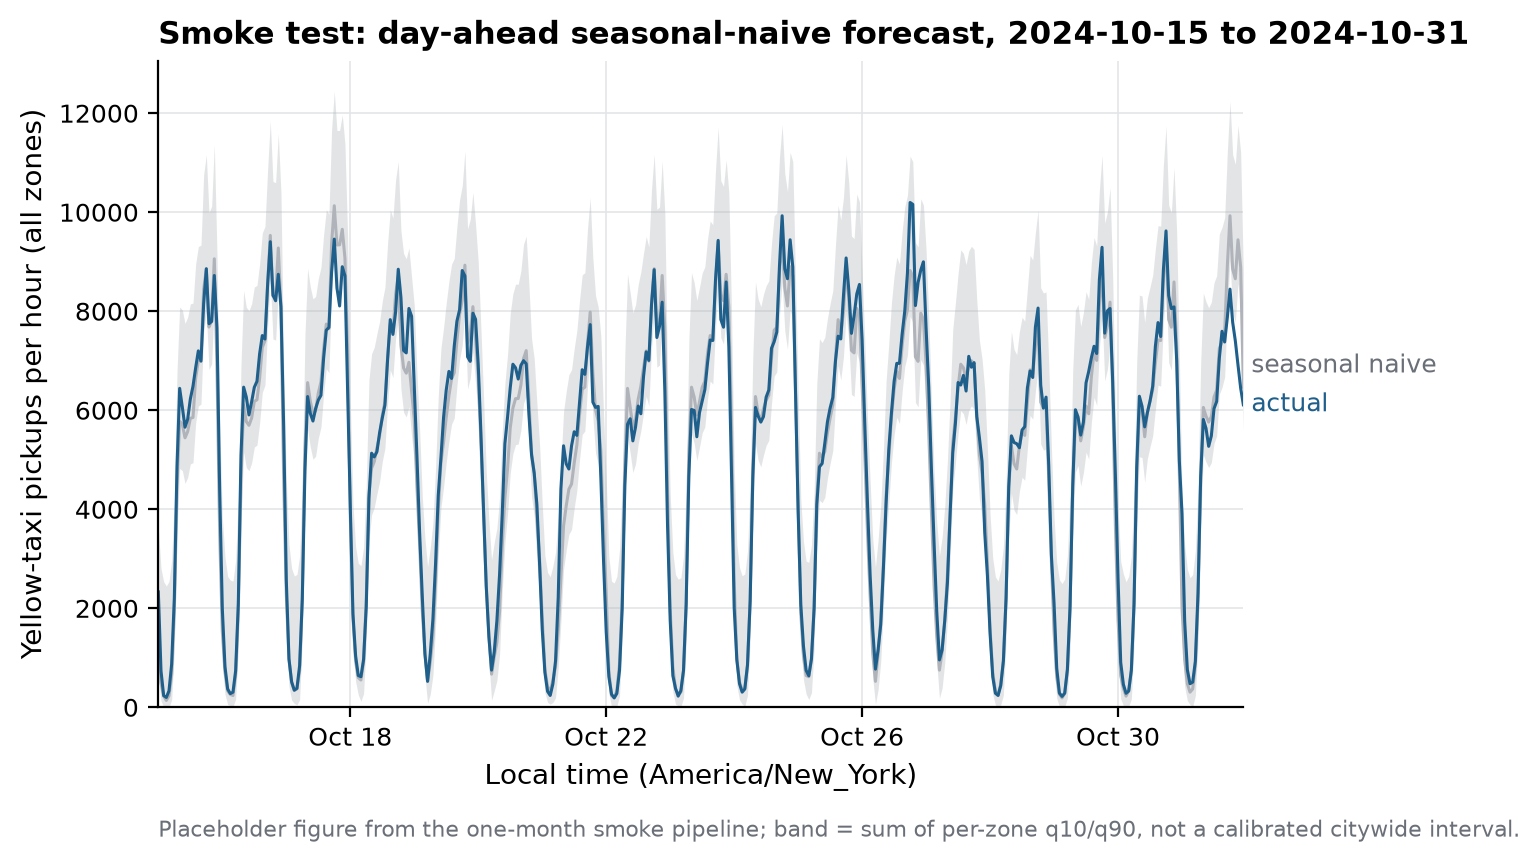
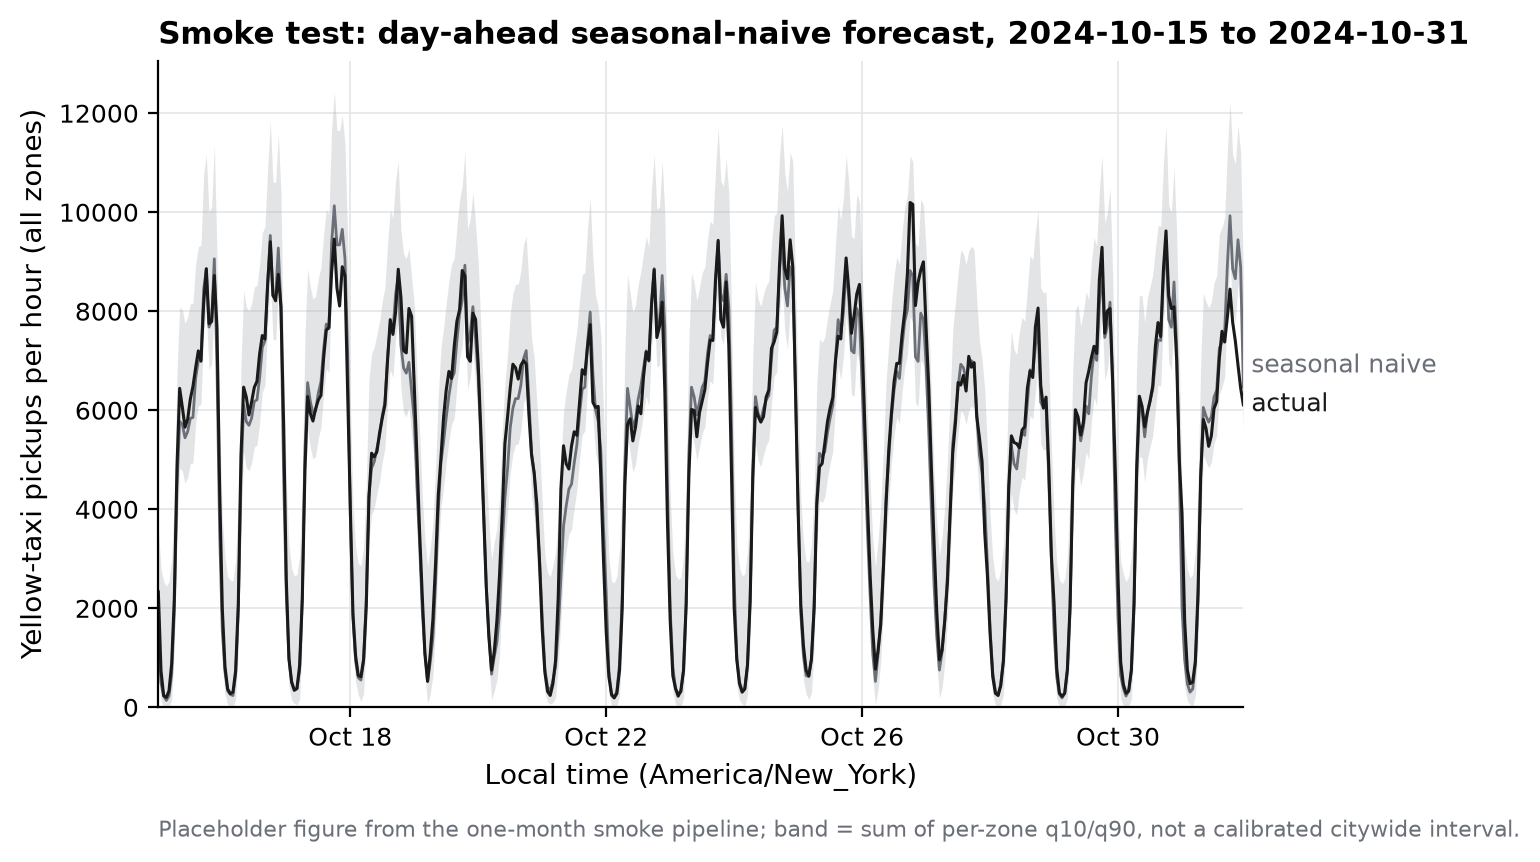
phase 0: apply review round 1 fixes (clean-clone script, manifest pruning, decisions, palette)

Changed region(s): [[0.0935, 0.2715, 0.8727, 0.8144]]

diff --git a/scripts/clean_clone_smoke.py b/scripts/clean_clone_smoke.py
@@ -1,0 +1,60 @@
+"""Prove `make smoke` works on a clean clone: export the committed tree (HEAD) into an empty
+temporary directory, run `make setup && make smoke` there, and record the result in
+results/smoke/smoke_run_clean_clone.json. Uncommitted changes are deliberately not tested.
+"""
+
+from __future__ import annotations
+
+import io
+import json
+import shutil
+import subprocess
+import tarfile
+import tempfile
+import time
+from pathlib import Path
+
+from taxi_shock.config import load_config, path, repo_root
+
+
+def main() -> None:
+    cfg = load_config()
+    root = repo_root()
+    commit = subprocess.run(["git", "rev-parse", "HEAD"], cwd=root, check=True,
+                            capture_output=True, text=True).stdout.strip()
+    dirty = subprocess.run(["git", "status", "--porcelain"], cwd=root, check=True,
+                           capture_output=True, text=True).stdout.strip() != ""
+    tmp = Path(tempfile.mkdtemp(prefix="taxi_shock_clean_"))
+    try:
+        archive = subprocess.run(["git", "archive", "--format=tar", "HEAD"], cwd=root,
+                                 check=True, capture_output=True).stdout
+        with tarfile.open(fileobj=io.BytesIO(archive)) as tf:
+            tf.extractall(tmp, filter="data")
+        # results/smoke and the smoke figure are tracked; remove them so the run must recreate them
+        shutil.rmtree(tmp / cfg["smoke"]["results_dir"], ignore_errors=True)
+        shutil.rmtree(tmp / cfg["smoke"]["figures_dir"], ignore_errors=True)
+        t0 = time.perf_counter()
+        subprocess.run(["make", "setup"], cwd=tmp, check=True)
+        setup_s = round(time.perf_counter() - t0, 1)
+        subprocess.run(["make", "smoke"], cwd=tmp, check=True)
+        run = json.loads((tmp / cfg["smoke"]["results_dir"] / "smoke_run.json").read_text())
+    finally:
+        shutil.rmtree(tmp, ignore_errors=True)
+    report = {
+        **run,
+        "git_commit": commit,
+        "working_tree_dirty_at_run": dirty,
+        "setup_seconds": setup_s,
+        "context": "git archive HEAD into an empty temp dir, then make setup && make smoke; "
+                   "setup_seconds depends on the local uv package cache",
+    }
+    out = path("smoke.results_dir", cfg) / "smoke_run_clean_clone.json"
+    out.parent.mkdir(parents=True, exist_ok=True)
+    out.write_text(json.dumps(report, indent=2) + "\n", encoding="utf-8")
+    print(json.dumps(report, indent=2))
+    if not run.get("passed"):
+        raise SystemExit("clean-clone smoke exceeded its time limit")
+
+
+if __name__ == "__main__":
+    main()

diff --git a/src/taxi_shock/viz/figures.py b/src/taxi_shock/viz/figures.py
@@ -24,8 +24,8 @@ def smoke_placeholder(fc: pd.DataFrame, out_base: Path) -> list[Path]:
     fig, ax = plt.subplots(figsize=SIZES["single"])
     ax.fill_between(city["target_ts"], city["q10"], city["q90"], color=PALETTE["baseline"],
                     alpha=0.35, linewidth=0, label="80% interval (sum of zone quantiles)")
-    ax.plot(city["target_ts"], city["point"], color=PALETTE["baseline"], linewidth=1.1)
-    ax.plot(city["target_ts"], city["y"], color=PALETTE["model"], linewidth=1.1)
+    ax.plot(city["target_ts"], city["point"], color=PALETTE["muted_text"], linewidth=1.0)
+    ax.plot(city["target_ts"], city["y"], color=PALETTE["actual"], linewidth=1.1)
     ax.set_ylabel("Yellow-taxi pickups per hour (all zones)")
     ax.set_xlabel("Local time (America/New_York)")
     ax.set_xlim(city["target_ts"].min(), city["target_ts"].max())
@@ -34,12 +34,12 @@ def smoke_placeholder(fc: pd.DataFrame, out_base: Path) -> list[Path]:
     ax.set_ylim(bottom=0)
     last = city.iloc[-1]
     x_lab = last["target_ts"] + pd.Timedelta(hours=3)
-    direct_labels(ax, x_lab, [(last["y"], "actual", PALETTE["model"]),
-                              (last["point"], "seasonal naive", "#6B7078")])
+    direct_labels(ax, x_lab, [(last["y"], "actual", PALETTE["actual"]),
+                              (last["point"], "seasonal naive", PALETTE["muted_text"])])
     lo, hi = city["target_ts"].min().date(), city["target_ts"].max().date()
     ax.set_title(f"Smoke test: day-ahead seasonal-naive forecast, {lo} to {hi}")
     ax.text(0.0, -0.2, "Placeholder figure from the one-month smoke pipeline; band = sum of "
             "per-zone q10/q90, not a calibrated citywide interval.",
-            transform=ax.transAxes, fontsize=8, color="#6B7078")
+            transform=ax.transAxes, fontsize=8, color=PALETTE["muted_text"])
     policy_line(ax)
     return save(fig, out_base)

diff --git a/src/taxi_shock/download.py b/src/taxi_shock/download.py
@@ -106,7 +106,10 @@ def download_file(url: str, dest: Path, cfg: dict[str, Any] | None = None) -> in
 
 
 def update_manifest(rows: Iterable[tuple[Path, int]], cfg: dict[str, Any] | None = None) -> Path:
-    """Upsert (file, bytes, download_date) rows into the manifest CSV; file paths repo-relative."""
+    """Upsert (file, bytes, download_date) rows into the manifest CSV; file paths repo-relative.
+
+    Rows whose file no longer exists on disk are dropped, so the manifest always describes the
+    raw files actually present."""
     cfg = cfg or load_config()
     manifest = path("manifest", cfg)
     manifest.parent.mkdir(parents=True, exist_ok=True)
@@ -122,6 +125,7 @@ def update_manifest(rows: Iterable[tuple[Path, int]], cfg: dict[str, Any] | None
         if prev and int(prev["bytes"]) == size:
             continue  # unchanged file keeps its original download date
         existing[rel] = {"file": rel, "bytes": str(size), "download_date": today}
+    existing = {k: v for k, v in existing.items() if (root / k).exists()}
     with manifest.open("w", newline="", encoding="utf-8") as fh:
         w = csv.DictWriter(fh, fieldnames=["file", "bytes", "download_date"], lineterminator="\n")
         w.writeheader()

diff --git a/tests/test_download.py b/tests/test_download.py
@@ -98,3 +98,16 @@ def test_manifest_upsert(tmp_path: Path, monkeypatch):
     lines = m.read_text().strip().splitlines()
     assert lines[0] == "file,bytes,download_date"
     assert len(lines) == 2 and lines[1].startswith("a.bin,3,")
+
+
+def test_manifest_drops_files_no_longer_on_disk(tmp_path: Path, monkeypatch):
+    monkeypatch.setattr(dl, "repo_root", lambda: tmp_path)
+    monkeypatch.setattr(dl, "path", lambda key, cfg=None: tmp_path / "manifest.csv")
+    a, b = tmp_path / "a.bin", tmp_path / "b.bin"
+    a.write_bytes(b"x")
+    b.write_bytes(b"yy")
+    dl.update_manifest([(a, 1), (b, 2)], cfg={})
+    b.unlink()
+    m = dl.update_manifest([(a, 1)], cfg={})
+    rows = m.read_text().strip().splitlines()[1:]
+    assert [r.split(",")[0] for r in rows] == ["a.bin"]

diff --git a/scripts/checkpoint0.py b/scripts/checkpoint0.py
@@ -46,6 +46,12 @@ def main() -> None:
         "cpu_count": os.cpu_count(),
         "mem_total_gb": round((mem_total_bytes() or 0) / GB, 2),
         "disks": disks,
+        # The WSL ext4 virtual disk reports a large nominal size but grows inside a VHDX file on
+        # C:, so free space on C: is the real ceiling for data/ (CLAUDE.md, Checkpoint 0).
+        "effective_ceiling": {
+            "source": "windows_c_drive" if "windows_c_drive" in disks else "repo_filesystem",
+            "free_gb": (disks.get("windows_c_drive") or disks["repo_filesystem"])["free_gb"],
+        },
     }
     (out / "machine_resources.json").write_text(json.dumps(resources, indent=2) + "\n")
 

diff --git a/src/taxi_shock/viz/style.py b/src/taxi_shock/viz/style.py
@@ -21,6 +21,8 @@ PALETTE: dict[str, str] = {
     "non_cbd": "#8A8F98",
     "model": "#1F5F8B",
     "baseline": "#B0B4BA",
+    "actual": "#1A1A1A",       # observed series (near-black, distinct from every model colour)
+    "muted_text": "#6B7078",   # notes, secondary labels, baseline lines drawn over a baseline band
     "text": "#2B2B2B",
 }
 DIVERGING_CMAP = "RdBu_r"   # blue-white-red, centred at 0 with a TwoSlopeNorm

diff --git a/reviews/phase_0.md b/reviews/phase_0.md
@@ -1,0 +1,92 @@
+# Phase 0 review — skeleton and smoke pipeline
+
+Reviewer: phase-reviewer · Date: 2026-11-07 · Commit reviewed: `41e9a94 phase 0: skeleton, dbt-duckdb warehouse and one-month smoke pipeline`
+
+## Verdict
+
+**FIX** — every DoD item is MET and I reproduced the clean-clone smoke run myself. One results file was written by hand rather than by code, and there are smaller hygiene, decision-log and figure-palette defects. Each one is listed below.
+
+## DoD table
+
+| DoD item | Status | Evidence |
+|---|---|---|
+| `make smoke` passes on a clean clone in < 10 min | MET | I ran `git clone` into a scratch dir, then `make setup` (1.3 s with a warm uv cache) and `make smoke`, which exited 0. `results/smoke/smoke_run.json` in the clone: `total_seconds` 25.0, `limit_seconds` 600.0, `passed` true. `backtest_smoke.csv`, `forecasts_smoke.parquet` and the PNG came out byte-identical to the committed copies, so the run is deterministic. The committed evidence file `results/smoke/smoke_run_clean_clone.json` was not written by code (see Fix 1). |
+| `ruff` clean | MET | `ruff check .` → `All checks passed!` |
+| `pytest` green | MET | 27 passed, 0 skipped (`test_grid.py` ran against `data/smoke.duckdb`) |
+| `DECISIONS.md` has its first entries | MET | 37 Phase-0 lines in the required format. Some rules are still missing (Fix 3). |
+| Task 1: §3 layout and pinned deps, `[chronos]` extra | MET | Every §3 path exists. Later-phase modules are docstring-only stubs (DECISIONS records this). `pyproject.toml` pins every listed package with `==`. `uv pip list` matches the pins and `uv pip check` reports all compatible. `torch` and `chronos-forecasting` are only in `[chronos]`. |
+| Task 2: download with resume, size check, retry, `--months`, lookups and shapefile | MET | `src/taxi_shock/download.py`. `tests/test_download.py::test_resume_after_truncated_transfer` and `::test_existing_complete_file_is_skipped` cover these paths. |
+| Task 3: Open-Meteo, 9 variables, yearly chunks | MET (documented deviation) | The code requests GMT unixtime and converts to local time in `stg_weather`. I confirmed the Builder's claim myself: `timezone=America/New_York` for 2024-07-01 returns `utc_offset_seconds: -18000` and a first timestamp of 1719810000 (= 05:00 UTC = 01:00 EDT). The deviation is therefore correct. `assert_weather_covers_grid` passes. |
+| Task 4: dbt wired to DuckDB via `read_parquet` sources | MET | `dbt/models/sources.yml` uses `external_location`. In the clone, `dbt build` gave PASS=19 (6 models + 13 tests). |
+| Task 5: `make smoke` = download → dbt run+test → seasonal-naive backtest → placeholder figure | MET | `scripts/00_smoke.py` runs these stages in order. Output: 107,304 forecast rows (= 263 zones × 24 h × 17 origins), from `results/smoke/forecasts_smoke.parquet`. |
+| §7: `make verify PHASE=N` exists | MET | `scripts/verify.py` and `config/phase_outputs.yaml` |
+| §7: CLAUDE.md at the root, reviewer agent, `reviews/` | MET | `CLAUDE.md` is identical to the source copy. `.claude/agents/phase-reviewer.md` and `reviews/.gitkeep` exist. |
+
+## Test output
+
+- `ruff check .` → `All checks passed!` (rc 0)
+- `pytest -q` → 27 passed. `tests/test_leakage.py` run alone in the clean clone → 4 passed.
+- `dbt test` by hand from `dbt/` (default profile) → `ERROR=13`, `Catalog Error: Table with name stg_zones does not exist!`. This is expected in Phase 0: the default profile points at the full `data/warehouse.duckdb`, which is only built in Phase 1. The run creates an empty `data/warehouse.duckdb` and an untracked `dbt/.user.yml`. I deleted both afterwards; see Fix 4.
+- `dbt test` by hand with `TAXI_SHOCK_WAREHOUSE=../data/smoke.duckdb` → `PASS=13 WARN=0 ERROR=0`.
+- `make verify PHASE=0` → ruff PASS, pytest PASS, dbt_test PASS (13/13 on the smoke warehouse), outputs PASS (6/6). The same result in the clean clone.
+
+## Number trace
+
+| Number (where) | Source | OK? |
+|---|---|---|
+| Figure title "2024-10-15 to 2024-10-31" | `results/smoke/forecasts_smoke.parquet` `target_ts` min/max (2024-10-15 00:00 / 2024-10-31 23:00). Config `smoke.backtest_origins`. | yes |
+| README: "Python 3.12", "3.14", "2025-01-05" | Environment facts / `config/project.yaml` `data.policy_date` | yes |
+| Commit message | contains no numbers | n/a |
+| `reports/analysis.md` | does not exist yet (Phase 7) | n/a |
+| Checkpoint-0 facts: yellow 93/93 months, 5.45 GB, largest 0.116 GB; hvfhv 33/33, 16.33 GB | `results/download_plan_summary.json`. I recomputed these from `results/download_plan.csv` and they match. | yes |
+| 12 CPUs, 8.23 GB RAM, C: 88.7 GB free | `results/machine_resources.json`. `df -h /mnt/c` shows 83G avail (GiB), which is consistent. | yes (but see Fix 5) |
+| Clean-clone run: 18.5 s | `results/smoke/smoke_run_clean_clone.json`, which was written by hand. The value is plausible: my own run took 25.0 s. | provenance defect (Fix 1) |
+
+## Method sanity
+
+- **Grid completeness and DST.** I ran the `int_hour_grid` SQL by hand. 2024-03 gives 743 hours, with 23 on 03-10. 2024-11 gives 720 hours, with 24 on 11-03 (the fall-back hour is merged). The smoke grid has n_rows = n_zones × n_hours and contains zeros (`tests/test_grid.py`). No test exercises the SQL on a DST month, because the smoke month has none. Add one in Phase 1, when full data exists.
+- **Leakage.** `tests/test_leakage.py` is real, not a placeholder:
+  - It poisons values at and after the origin with 1e6 and NaN and asserts bit-identical forecasts.
+  - Its power check confirms that poisoning the past changes the forecasts.
+  - The engine cuts history positionally (`hour_ts < origin`).
+  - No `lag_1`, `shift(1)` or `rolling(4)` appears in `src/`, `scripts/` or `dbt/`.
+- **Backtest outputs are sane** (`results/smoke/backtest_smoke.csv`, all/all rows): `n` all = y_zero + y_pos (107,304 = 56,637 + 50,667), and `train_end < origin` for every row. WAPE and MASE are left out of the y_zero subset, as intended.
+- **Checkpoint 0 caution.** `repo_filesystem.free_gb` = 993.0 is the nominal size of the WSL virtual disk. That disk lives on C:, so the real ceiling is C: free = 88.7 GB. That covers yellow (5.45 GB) plus the optional hvfhv download (16.33 GB). The Checkpoint-0 message must quote C:, not 993 GB.
+
+## Figures
+
+`reports/figures/smoke/F0_smoke_placeholder.png` (the placeholder):
+- Axis labels carry units, the plot is readable at 7 in, direct end labels replace a legend, the y-axis starts at 0, and the title is descriptive, not a finding.
+- The policy line is correctly suppressed because the policy date is outside the x-range.
+
+Defects:
+- **Palette.** The observed series ("actual") uses `PALETTE["model"]` (#1F5F8B). That colour is reserved for models, and F2b in Phase 2 needs actual and model on the same axes.
+- **Hard-coded colours.** `#6B7078` (the naive label and the footnote) is hard-coded in `viz/figures.py` instead of coming from `style.py`.
+- **Low contrast.** The seasonal-naive line (#B0B4BA) is almost invisible on its own grey band.
+
+## Decisions check
+
+`DECISIONS.md` covers the thresholds, straggler window, DST, weather timezone, downloads, refit and window rules, metrics, smoke window, DuckDB settings and the verify rule. These rules are visible in code or config but have no `DECISIONS.md` line:
+
+- `is_airport = service_zone in ('Airports','EWR')` in `dbt/models/staging/stg_zones.sql`. Note that this counts Newark (NJ) as an airport zone.
+- Weather units °F / mph / inch (`sources.weather_units`).
+- `http_timeout_seconds: 120`.
+- dbt profile `threads: 1` (`dbt/profiles.yml`).
+- SeasonalNaive's fallback when a zone has no residual quantiles: `fillna(0.0)`, which gives a degenerate interval (`models/seasonal_naive.py`).
+
+## Fix list
+
+1. Replace the hand-written `results/smoke/smoke_run_clean_clone.json` with one produced by code. Either add a script or make target (e.g. `scripts/00_smoke.py --clean-clone` or `make smoke-clean`) that exports the tracked tree to a temp dir, runs `make setup && make smoke` there, and writes this file with its context field, or drop the file from `config/phase_outputs.yaml` and from the repo. PLAN §0.1 requires every `results/` file to come from code.
+2. Remove the stale row `data/raw/weather/open_meteo_2024-10-01_2024-10-31.csv,33595,...` from `data/raw/manifest.csv`. That file is no longer on disk and no code produces it any more. Better still, make `update_manifest` in `src/taxi_shock/download.py` drop rows whose file no longer exists under `data/raw/`, so the committed manifest lists only files the pipeline fetches.
+3. Add `DECISIONS.md` lines for each of the five rules listed under Decisions check.
+4. Add `dbt/.user.yml` to `.gitignore`. dbt writes it with a per-machine id whenever dbt is run by hand from `dbt/`.
+5. In `scripts/checkpoint0.py`, write an explicit `effective_ceiling` field (C: free space) into `results/machine_resources.json`, with a note that the WSL virtual disk grows on C:. Then the 993 GB "repo_filesystem" figure cannot be misread as headroom.
+6. In `src/taxi_shock/viz/style.py`, add an `actual` colour (and a `muted_text` colour) to `PALETTE`. Use them in `src/taxi_shock/viz/figures.py::smoke_placeholder` instead of `PALETTE["model"]` and the hard-coded `#6B7078`. Draw the seasonal-naive point line in a darker shade of the baseline grey so it stays visible on its band. Regenerate the placeholder figure.
+
+## Escalation reasons
+
+None.
+
+## Amendments made
+
+None.
